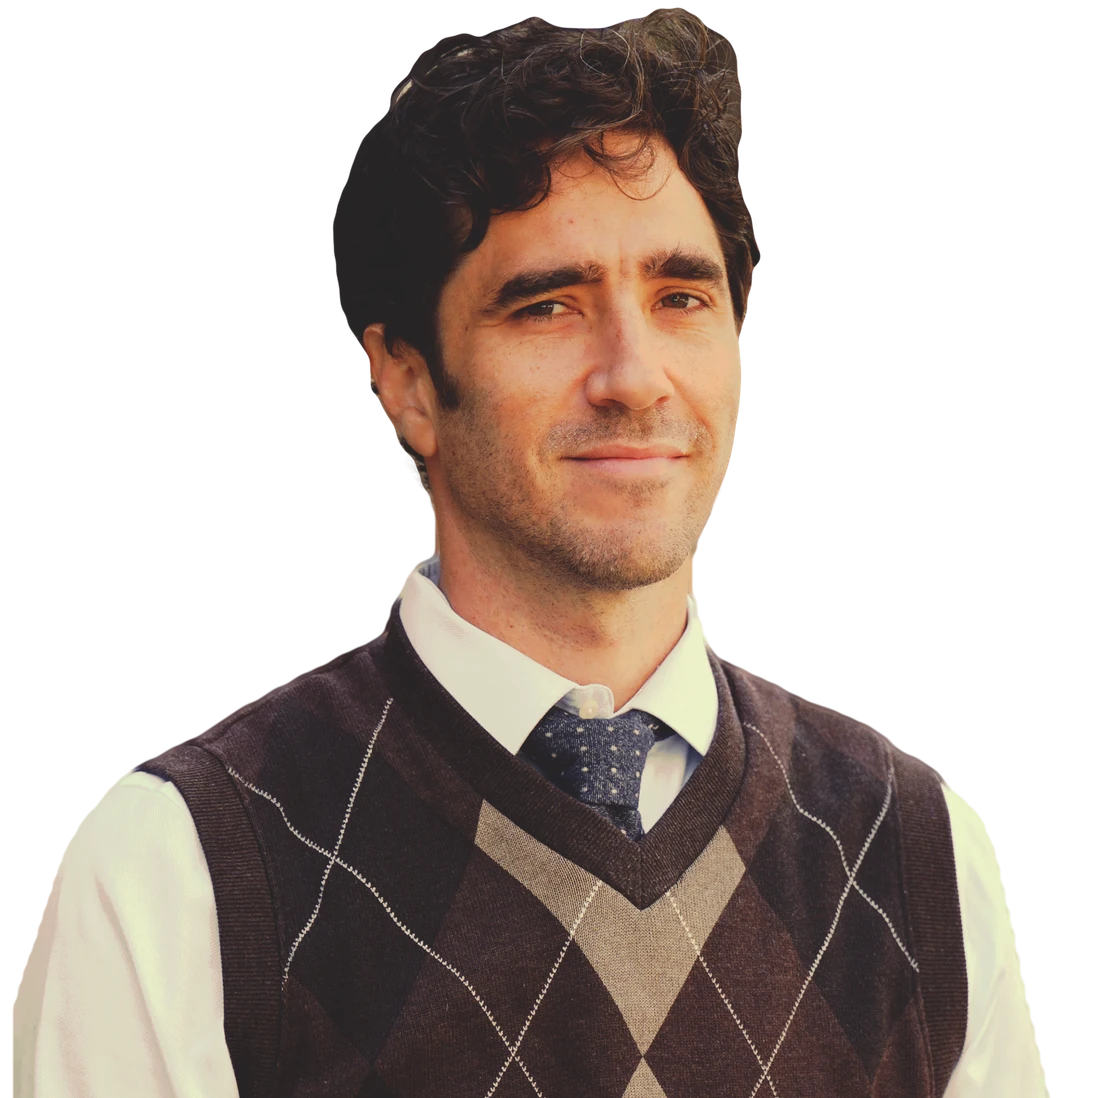
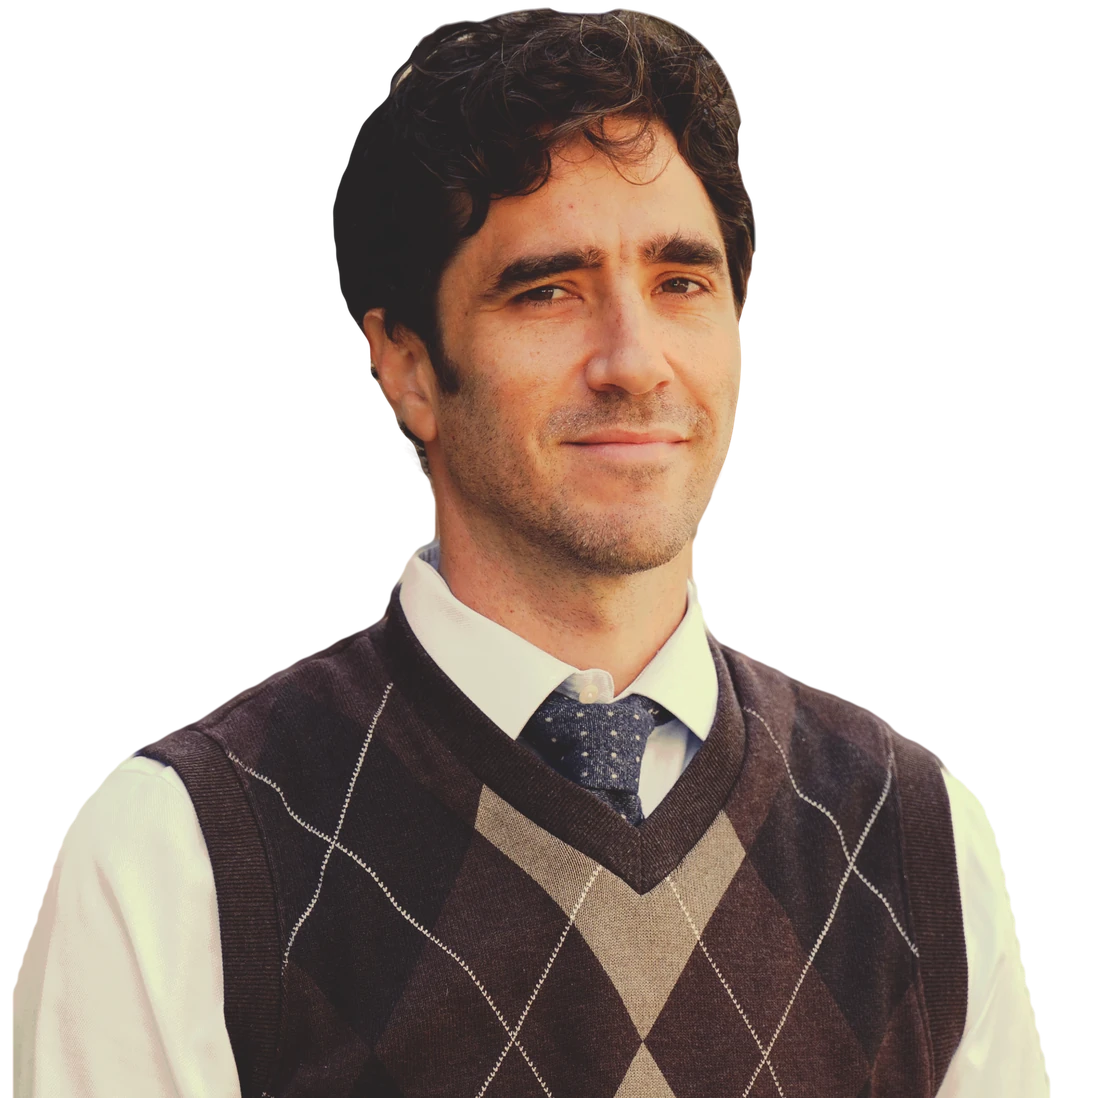
Landing: round the top-right hair outline; smaller photo with CV | Scholar | Yale links beneath it

diff --git a/assets/css/theme.scss b/assets/css/theme.scss
@@ -46,25 +46,26 @@ a:hover { text-decoration: underline; }
 // Landing: cut-out photo left, bio right; stacks on narrow screens.
 .landing {
   display: grid;
-  grid-template-columns: minmax(0, 1fr) minmax(0, 1.05fr);
+  grid-template-columns: minmax(0, 0.8fr) minmax(0, 1.2fr);
   gap: 3.5rem;
   align-items: center;
   margin: 3.5rem 0 4rem;
 }
 .landing-photo img {
   width: 100%;
-  max-width: 520px;
+  max-width: 380px;
   display: block;
   margin: 0 auto;
   filter: drop-shadow(0 6px 6px rgba(0,0,0,.18));
 }
 .landing-photo p { margin: 0; }
 .landing-bio p { margin-bottom: 1.4rem; }
-.landing-bio p:last-child { margin-top: 1.8rem; color: $ink; }
-.landing-bio p:last-child a { color: $ink; font-weight: 700; }
+.landing-links { text-align: center; margin-top: 1.6rem; color: $ink; font-weight: 700; }
+.landing-links p { margin: 0; }
+.landing-links a { color: $ink; font-weight: 700; }
 @media (max-width: 760px) {
   .landing { grid-template-columns: 1fr; gap: 1.5rem; margin-top: 1.5rem; }
-  .landing-photo img { max-width: 300px; }
+  .landing-photo img { max-width: 260px; }
   .navbar .navbar-title::after { display: block; margin-left: 0; font-size: .75rem; }
 }
 
